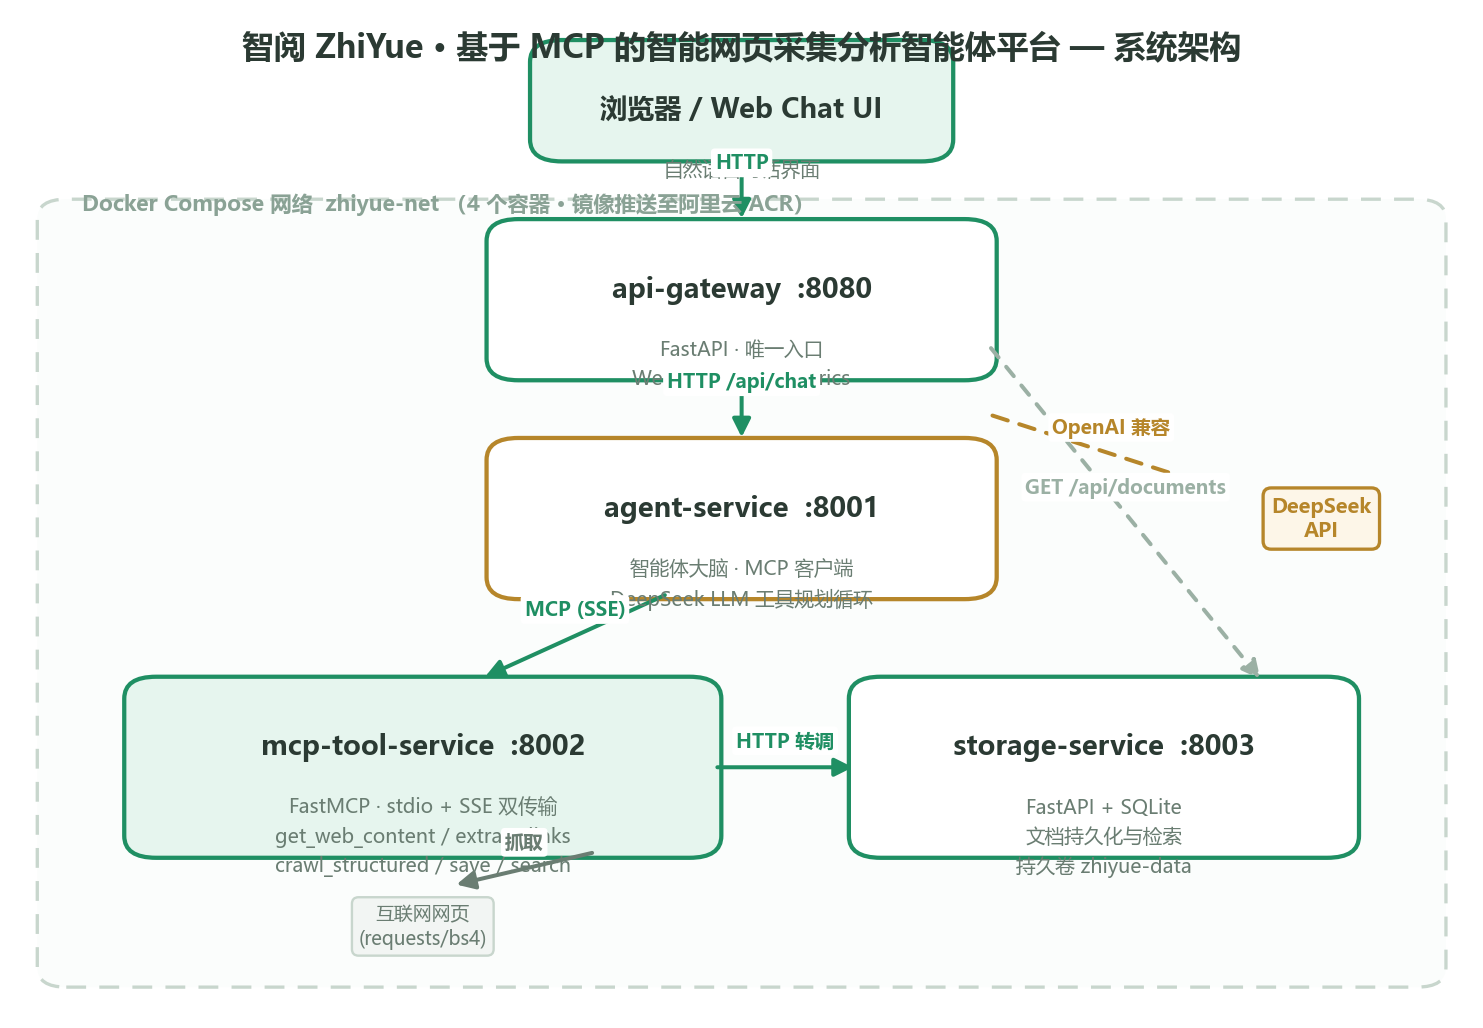
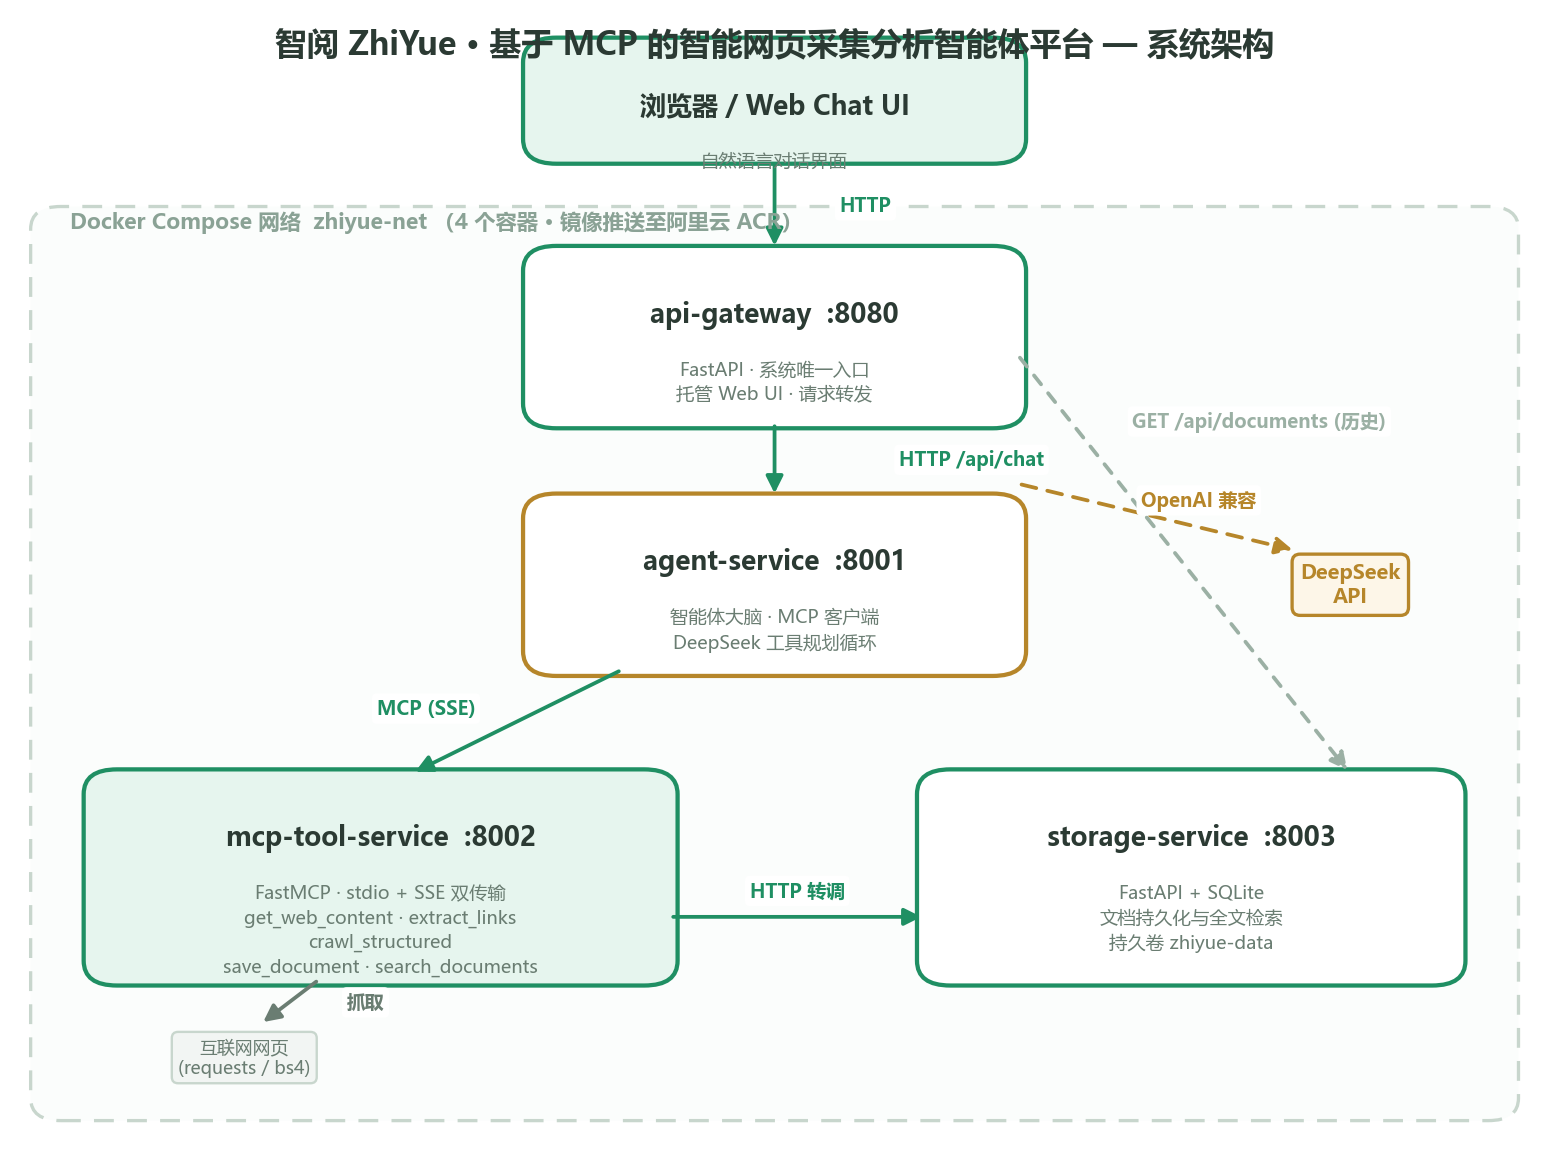
polish(report): cleaner architecture diagram (no label overlap) + ignore preview pdf

diff --git a/scripts/gen_diagram.py b/scripts/gen_diagram.py
@@ -1,4 +1,5 @@
 #!/usr/bin/env python3
+# -*- coding: utf-8 -*-
 """生成系统架构图 (报告/diagrams/architecture.png)。"""
 import os
 
@@ -16,7 +17,7 @@ SLATE = "#2b3a33"
 AMBER = "#b6862a"
 GREY = "#6a7d72"
 
-fig, ax = plt.subplots(figsize=(11, 7.6), dpi=170)
+fig, ax = plt.subplots(figsize=(11.5, 8.6), dpi=170)
 ax.set_xlim(0, 100)
 ax.set_ylim(0, 100)
 ax.axis("off")
@@ -25,61 +26,62 @@ ax.axis("off")
 def box(x, y, w, h, title, lines, fc="white", ec=JADE, tc=SLATE):
     ax.add_patch(FancyBboxPatch((x, y), w, h, boxstyle="round,pad=0.6,rounding_size=2.2",
                                 fc=fc, ec=ec, lw=1.8, mutation_aspect=1))
-    ax.text(x + w / 2, y + h - 5.0, title, ha="center", va="top",
-            fontsize=11.5, fontweight="bold", color=tc)
-    ax.text(x + w / 2, y + h - 11.5, "\n".join(lines), ha="center", va="top",
-            fontsize=8.3, color=GREY, linespacing=1.5)
+    ax.text(x + w / 2, y + h - 4.2, title, ha="center", va="top",
+            fontsize=11, fontweight="bold", color=tc)
+    if lines:
+        ax.text(x + w / 2, y + h - 9.6, "\n".join(lines), ha="center", va="top",
+                fontsize=7.8, color=GREY, linespacing=1.45)
 
 
-def arrow(x1, y1, x2, y2, label="", color=JADE, style="-|>", ls="-"):
-    ax.add_patch(FancyArrowPatch((x1, y1), (x2, y2), arrowstyle=style, mutation_scale=16,
-                                 color=color, lw=1.7, linestyle=ls,
-                                 connectionstyle="arc3,rad=0"))
+def arrow(x1, y1, x2, y2, label="", color=JADE, ls="-", lx=None, ly=None):
+    ax.add_patch(FancyArrowPatch((x1, y1), (x2, y2), arrowstyle="-|>", mutation_scale=15,
+                                 color=color, lw=1.6, linestyle=ls))
     if label:
-        ax.text((x1 + x2) / 2, (y1 + y2) / 2 + 1.6, label, ha="center", va="bottom",
-                fontsize=8.2, color=color, fontweight="bold",
-                bbox=dict(boxstyle="round,pad=0.2", fc="white", ec="none"))
+        ax.text(lx if lx is not None else (x1 + x2) / 2,
+                ly if ly is not None else (y1 + y2) / 2,
+                label, ha="center", va="center", fontsize=8, color=color, fontweight="bold",
+                bbox=dict(boxstyle="round,pad=0.25", fc="white", ec="none"))
 
 
 # Docker / compose 边框
-ax.add_patch(FancyBboxPatch((2, 3), 96, 78, boxstyle="round,pad=0.6,rounding_size=2",
+ax.add_patch(FancyBboxPatch((1.5, 2.5), 97, 80, boxstyle="round,pad=0.6,rounding_size=2",
                             fc="#fbfdfc", ec="#c8d6cd", lw=1.4, ls=(0, (6, 4))))
-ax.text(4.5, 80.5, "Docker Compose 网络  zhiyue-net （4 个容器 · 镜像推送至阿里云 ACR）",
+ax.text(3.5, 81.2, "Docker Compose 网络  zhiyue-net （4 个容器 · 镜像推送至阿里云 ACR）",
         fontsize=9, color="#8aa295", fontweight="bold")
 
-# 浏览器
-box(36, 86, 28, 11, "浏览器 / Web Chat UI", ["自然语言对话界面"], fc=JADE_L, ec=JADE)
+# 浏览器（顶部，框外）
+box(34, 87.5, 32, 10, "浏览器 / Web Chat UI", ["自然语言对话界面"], fc=JADE_L, ec=JADE)
 
 # gateway
-box(33, 64, 34, 15, "api-gateway  :8080", ["FastAPI · 唯一入口", "Web UI · 转发 · /metrics"], fc="white")
+box(34, 64, 32, 15, "api-gateway  :8080", ["FastAPI · 系统唯一入口", "托管 Web UI · 请求转发"], fc="white")
 
 # agent
-box(33, 42, 34, 15, "agent-service  :8001", ["智能体大脑 · MCP 客户端", "DeepSeek LLM 工具规划循环"], fc="white", ec=AMBER, tc=SLATE)
+box(34, 42, 32, 15, "agent-service  :8001", ["智能体大脑 · MCP 客户端", "DeepSeek 工具规划循环"], fc="white", ec=AMBER)
 
-# mcp-tool
-box(8, 16, 40, 17, "mcp-tool-service  :8002", ["FastMCP · stdio + SSE 双传输",
-    "get_web_content / extract_links", "crawl_structured / save / search"], fc=JADE_L, ec=JADE)
+# mcp-tool（左下）
+box(5, 14.5, 38, 18, "mcp-tool-service  :8002", ["FastMCP · stdio + SSE 双传输", "get_web_content · extract_links",
+    "crawl_structured", "save_document · search_documents"], fc=JADE_L, ec=JADE)
 
-# storage
-box(58, 16, 34, 17, "storage-service  :8003", ["FastAPI + SQLite", "文档持久化与检索", "持久卷 zhiyue-data"], fc="white")
+# storage（右下）
+box(60, 14.5, 35, 18, "storage-service  :8003", ["FastAPI + SQLite", "文档持久化与全文检索", "持久卷 zhiyue-data"], fc="white")
 
-# 外部
-ax.text(90, 49.5, "DeepSeek\nAPI", ha="center", va="center", fontsize=8.5, color=AMBER,
+# 外部依赖
+ax.text(88, 49.5, "DeepSeek\nAPI", ha="center", va="center", fontsize=8.5, color=AMBER,
         fontweight="bold", bbox=dict(boxstyle="round,pad=0.4", fc="#fdf6e8", ec=AMBER, lw=1.4))
-ax.text(28, 8.5, "互联网网页\n(requests/bs4)", ha="center", va="center", fontsize=8, color=GREY,
+ax.text(15, 7.5, "互联网网页\n(requests / bs4)", ha="center", va="center", fontsize=7.6, color=GREY,
         bbox=dict(boxstyle="round,pad=0.35", fc="#f2f5f3", ec="#c8d6cd"))
 
-# 箭头
-arrow(50, 86, 50, 79.2, "HTTP")
-arrow(50, 64, 50, 57.2, "HTTP /api/chat")
-arrow(45, 42, 32, 33.4, "MCP (SSE)", color=JADE)
-arrow(67, 60, 84, 52, "OpenAI 兼容", color=AMBER, ls=(0, (4, 3)))
-arrow(40, 16, 30, 12.6, "抓取", color=GREY)
-arrow(48, 24.5, 58, 24.5, "HTTP 转调", color=JADE)
-# gateway 历史浏览直连 storage
-arrow(67, 67, 86, 33, "GET /api/documents", color="#9bb0a4", ls=(0, (3, 3)))
+# 箭头（标签偏置到一侧，避免压住框内文字）
+arrow(50, 87.3, 50, 79.2, "HTTP", lx=56, ly=83.2)
+arrow(50, 64, 50, 57.2, "HTTP /api/chat", lx=63, ly=60.6)
+arrow(40, 42, 26, 32.7, "MCP (SSE)", color=JADE, lx=27, ly=38.5)
+arrow(66, 58.5, 84.5, 52.5, "OpenAI 兼容", color=AMBER, ls=(0, (4, 3)), lx=78, ly=57)
+arrow(43, 20, 60, 20, "HTTP 转调", color=JADE, lx=51.5, ly=22.3)
+arrow(20, 14.5, 16, 10.4, "抓取", color=GREY, lx=23, ly=12.4)
+# gateway 历史浏览直连 storage（只读）
+arrow(66, 70, 88, 32.7, "GET /api/documents (历史)", color="#9bb0a4", ls=(0, (3, 3)), lx=82, ly=64)
 
-ax.text(50, 98.6, "智阅 ZhiYue · 基于 MCP 的智能网页采集分析智能体平台 — 系统架构",
+ax.text(50, 99, "智阅 ZhiYue · 基于 MCP 的智能网页采集分析智能体平台 — 系统架构",
         ha="center", va="top", fontsize=13.5, fontweight="bold", color=SLATE)
 
 os.makedirs("报告/diagrams", exist_ok=True)